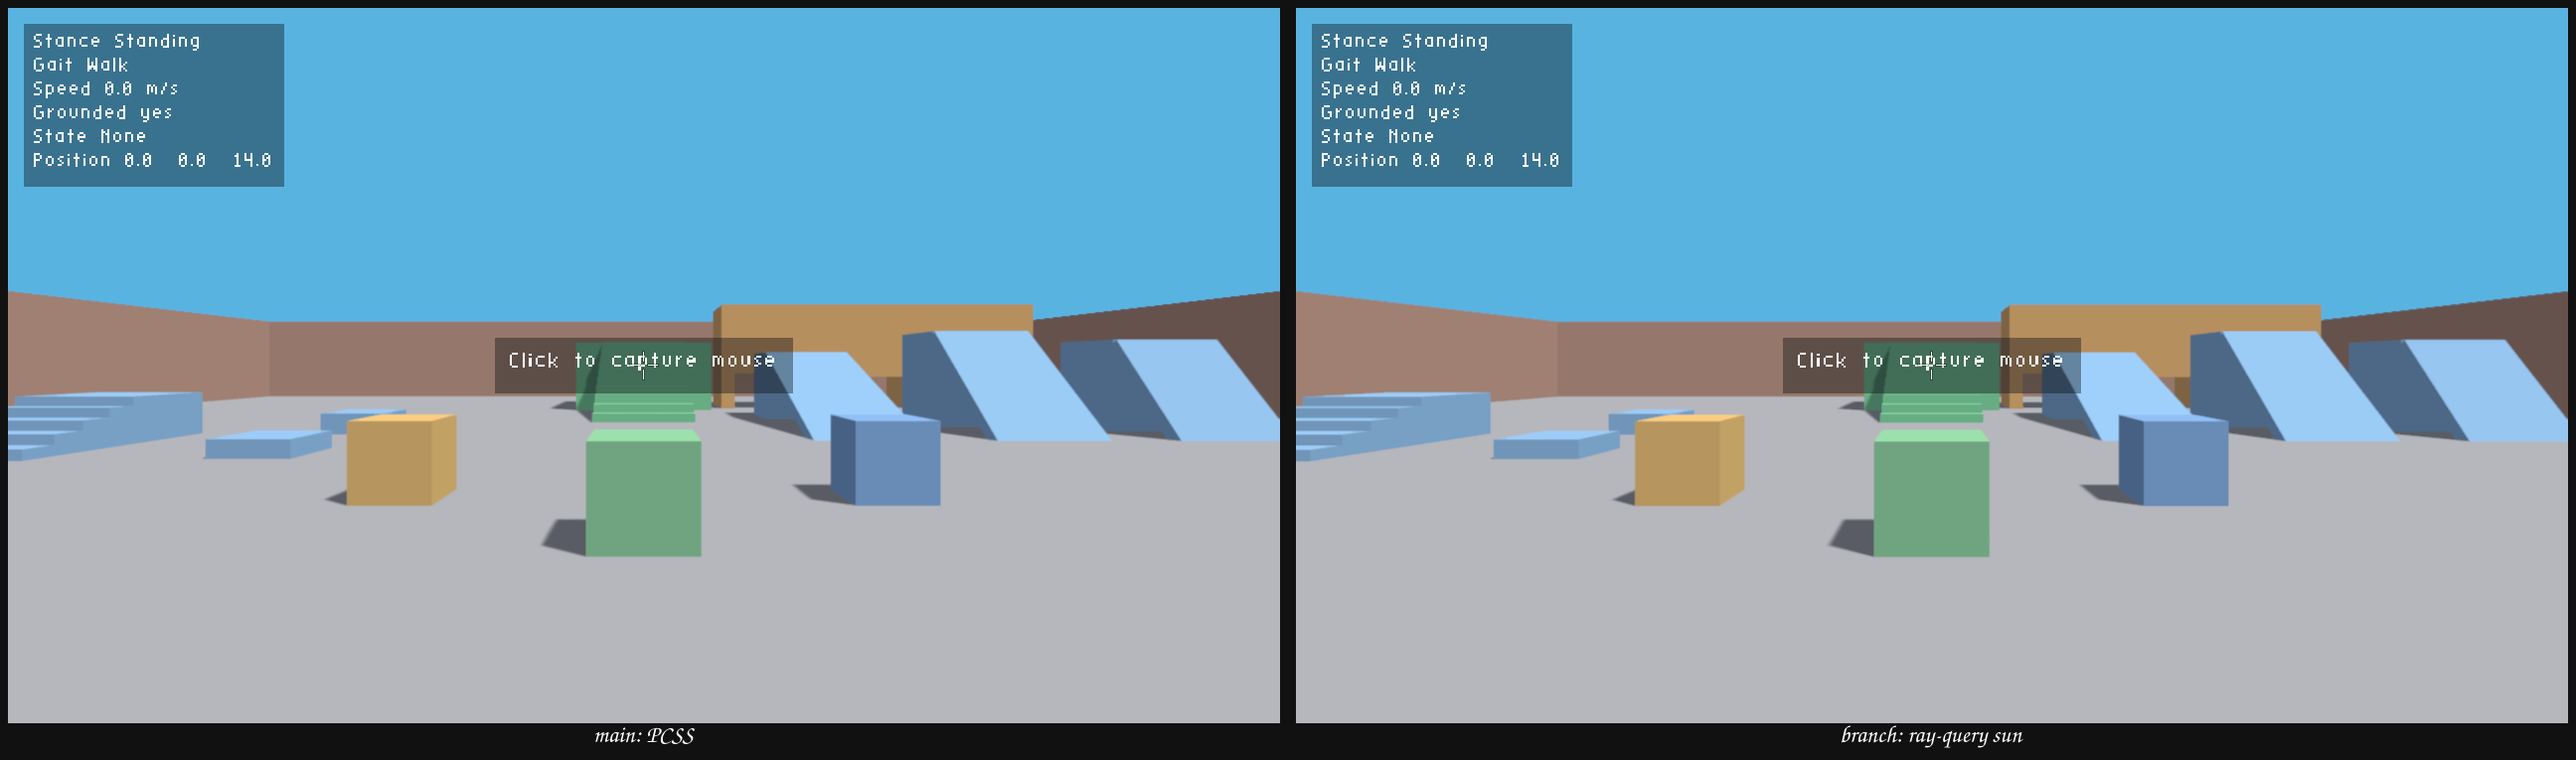
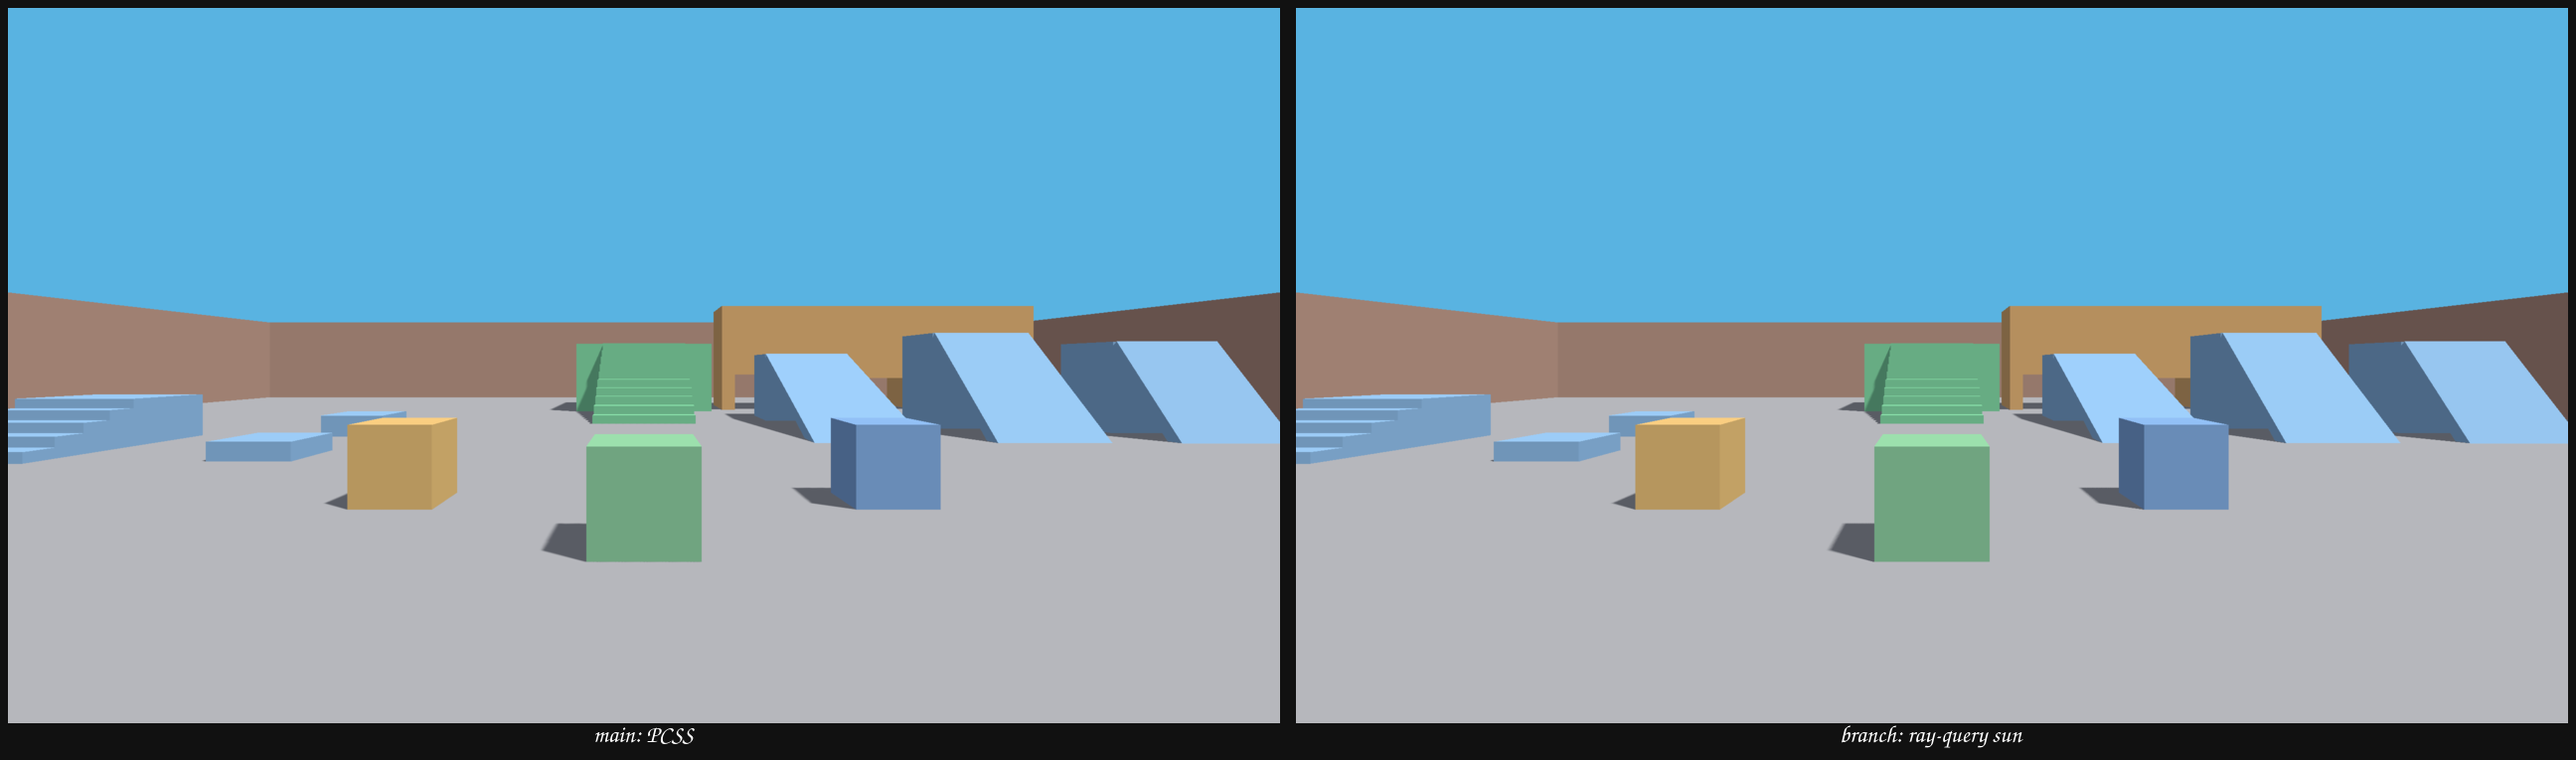
docs(evidence): recapture the shadow comparison at 2560x1440

diff --git a/docs/evidence/shadows.md b/docs/evidence/shadows.md
@@ -1,11 +1,14 @@
 # Shadow evidence
 
-Captured on 2026-10-24 at 1280x720 with TAA on. GPU: AMD Radeon RX 9060 XT
-(RADV GFX1200).
+Captured on 2026-10-24 at 2560x1440 from the offscreen harness, with no HUD.
+GPU: AMD Radeon RX 9060 XT (RADV GFX1200).
 
 - Before: `main` at `d265599`. Percentage-closer soft shadows over a 4096
   shadow map.
 - After: `fix/ray-query-shadows`. Ray-query sun shadows with 16 sun samples.
+
+The game window now opens fullscreen at the display's resolution. The offscreen
+captures use the same renderer path at 2560x1440.
 
 ![before](shadows-before.png)
 
@@ -13,10 +16,10 @@ Captured on 2026-10-24 at 1280x720 with TAA on. GPU: AMD Radeon RX 9060 XT
 
 ## Zoom
 
-3x nearest-neighbor crop of the green crate and its shadow. The PCSS path
+2x nearest-neighbor crop of the green crate and its shadow. The PCSS path
 quantizes the shadow shape and the penumbra. The ray-query path has an exact
 shape and a smooth penumbra. The remaining diagonal steps are screen pixels at
-1280x720, not shadow-map texels.
+2560x1440, not shadow-map texels.
 
 ![zoom comparison](shadows-zoom-compare.png)
 
@@ -25,5 +28,6 @@ shape and a smooth penumbra. The remaining diagonal steps are screen pixels at
 - `make check` passes.
 - `make test` passes: 1 physics, 108 simulation, 7 frame, 28 harness, and 4
   renderer tests.
-- `make validate` ran with `VK_LAYER_KHRONOS_validation` for 15 seconds. Both
-  the offscreen and present scenarios passed with no `VUID` or `[ERROR]` lines.
+- `make validate` ran both offscreen and present scenarios with
+  `VK_LAYER_KHRONOS_validation`. No `VUID` or `[ERROR]` lines.
+- The fullscreen app ran with validation. No `VUID` or `[ERROR]` lines.
